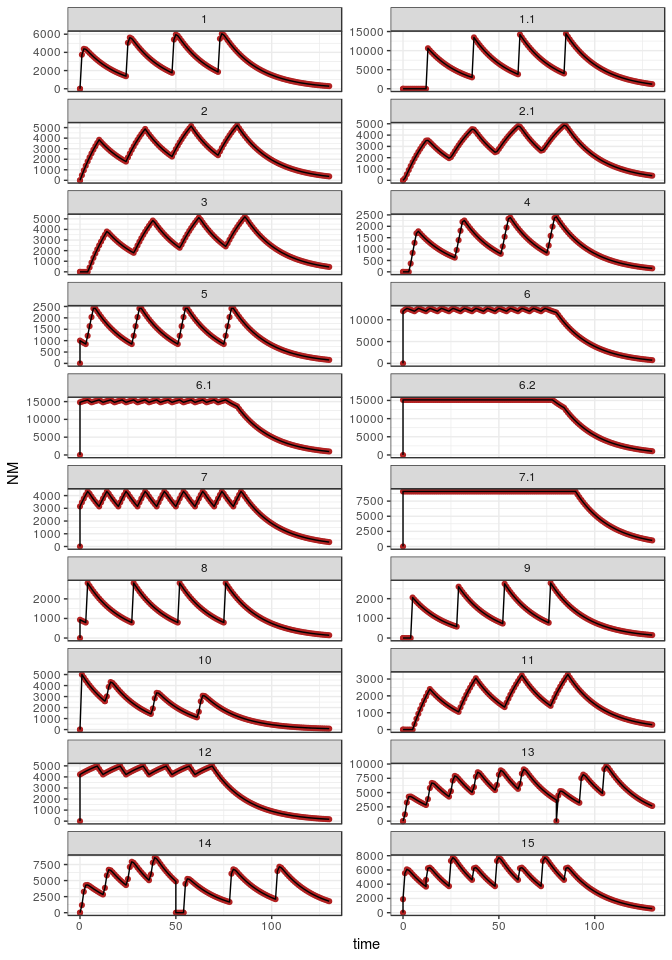
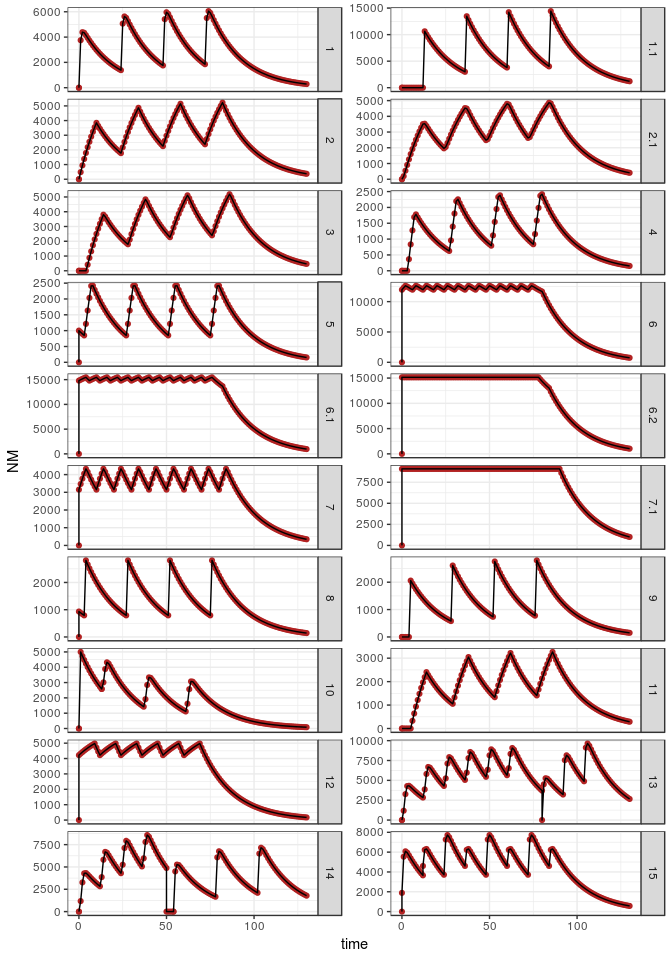
rebuild with strip on right

diff --git a/nmtest4.md b/nmtest4.md
@@ -1322,7 +1322,7 @@ Plot
 ggplot(data = data) + 
   geom_point(aes(time,NM),color = "firebrick") + 
   geom_line(aes(time,MRGSIM,group = ID)) +
-  facet_wrap(~ID, scales = "free_y", ncol = 2) + 
+  facet_wrap(~ID, scales = "free_y", ncol = 2,strip.position = "right") + 
   theme_bw()
 ```
 
